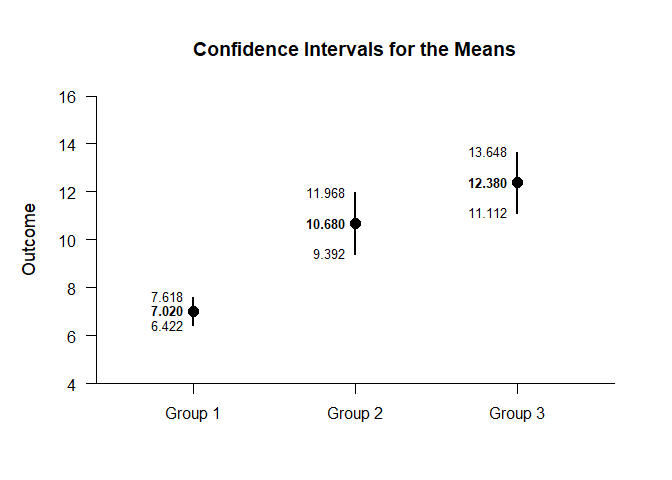
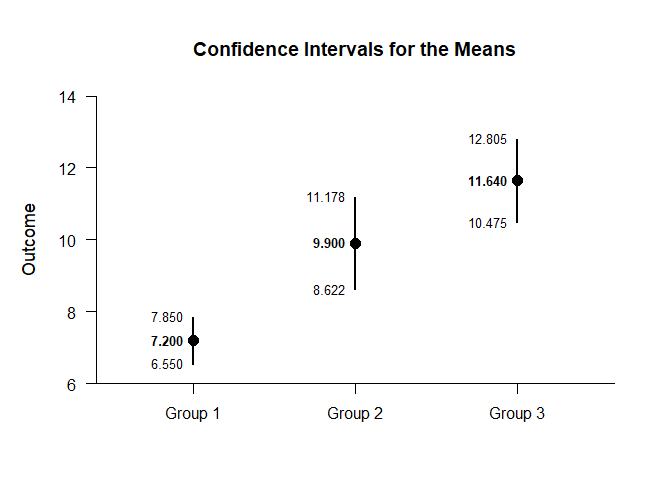
Updated exposition application

diff --git a/docs/applications/ExpositionOneWayDataApplication.md b/docs/applications/ExpositionOneWayDataApplication.md
@@ -36,14 +36,14 @@ with(OneWayData,estimateMeans(Outcome~Factor))
 
     ## $`Confidence Intervals for the Means`
     ##               M      SE      df      LL      UL
-    ## Group 1   7.020   0.298  49.000   6.422   7.618
-    ## Group 2  10.680   0.641  49.000   9.392  11.968
-    ## Group 3  12.380   0.631  49.000  11.112  13.648
+    ## Group 1   7.200   0.323  49.000   6.550   7.850
+    ## Group 2   9.900   0.636  49.000   8.622  11.178
+    ## Group 3  11.640   0.580  49.000  10.475  12.805
 
 In EASI, this is accomplished more efficiently and flexibly by using an
 exposition operator (such as the included `%$>%`). This is particularly
-useful in cases where there is a desire to on specific variables (not
-that th data set contains more variables in this example).
+useful in cases where there is a desire to focus on specific variables
+(though again, not present in this data set).
 
 ``` r
 OneWayData %$>% (Outcome~Factor) |> estimateMeans()
@@ -51,9 +51,9 @@ OneWayData %$>% (Outcome~Factor) |> estimateMeans()
 
     ## $`Confidence Intervals for the Means`
     ##               M      SE      df      LL      UL
-    ## Group 1   7.020   0.298  49.000   6.422   7.618
-    ## Group 2  10.680   0.641  49.000   9.392  11.968
-    ## Group 3  12.380   0.631  49.000  11.112  13.648
+    ## Group 1   7.200   0.323  49.000   6.550   7.850
+    ## Group 2   9.900   0.636  49.000   8.622  11.178
+    ## Group 3  11.640   0.580  49.000  10.475  12.805
 
 ``` r
 OneWayData %$>% (Outcome~Factor) |> plotMeans()

diff --git a/docs/applications/ExpositionRepeatedMeasuresDataApplication.md b/docs/applications/ExpositionRepeatedMeasuresDataApplication.md
@@ -34,13 +34,13 @@ with(RepeatedData,estimateMeans(RepeatedData))
 
     ## $`Confidence Intervals for the Means`
     ##                M      SE      df      LL      UL
-    ## Outcome1   7.180   0.315  49.000   6.547   7.813
-    ## Outcome2  10.920   0.468  49.000   9.979  11.861
-    ## Outcome3  12.400   0.580  49.000  11.235  13.565
+    ## Outcome1   7.220   0.273  49.000   6.671   7.769
+    ## Outcome2  12.060   0.519  49.000  11.016  13.104
+    ## Outcome3  11.560   0.642  49.000  10.270  12.850
 
 In EASI, this is accomplished more efficiently and flexibly by using an
 exposition operator (such as the included `%$>%`). This is particularly
-useful in cases where there is a desire to on specific variables.
+useful in cases where there is a desire to focus on specific variables.
 
 ``` r
 RepeatedData %$>% cbind(Outcome1,Outcome2) |> estimateMeans()
@@ -48,8 +48,8 @@ RepeatedData %$>% cbind(Outcome1,Outcome2) |> estimateMeans()
 
     ## $`Confidence Intervals for the Means`
     ##                M      SE      df      LL      UL
-    ## Outcome1   7.180   0.315  49.000   6.547   7.813
-    ## Outcome2  10.920   0.468  49.000   9.979  11.861
+    ## Outcome1   7.220   0.273  49.000   6.671   7.769
+    ## Outcome2  12.060   0.519  49.000  11.016  13.104
 
 ``` r
 RepeatedData %$>% cbind(Outcome1,Outcome2) |> plotMeans()
